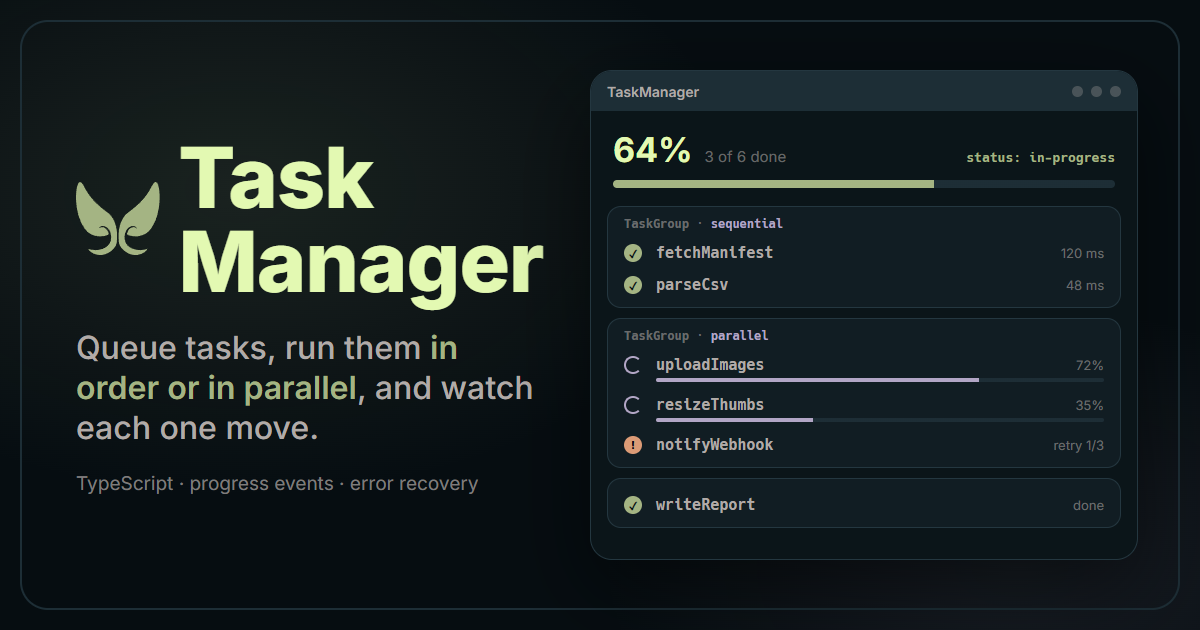
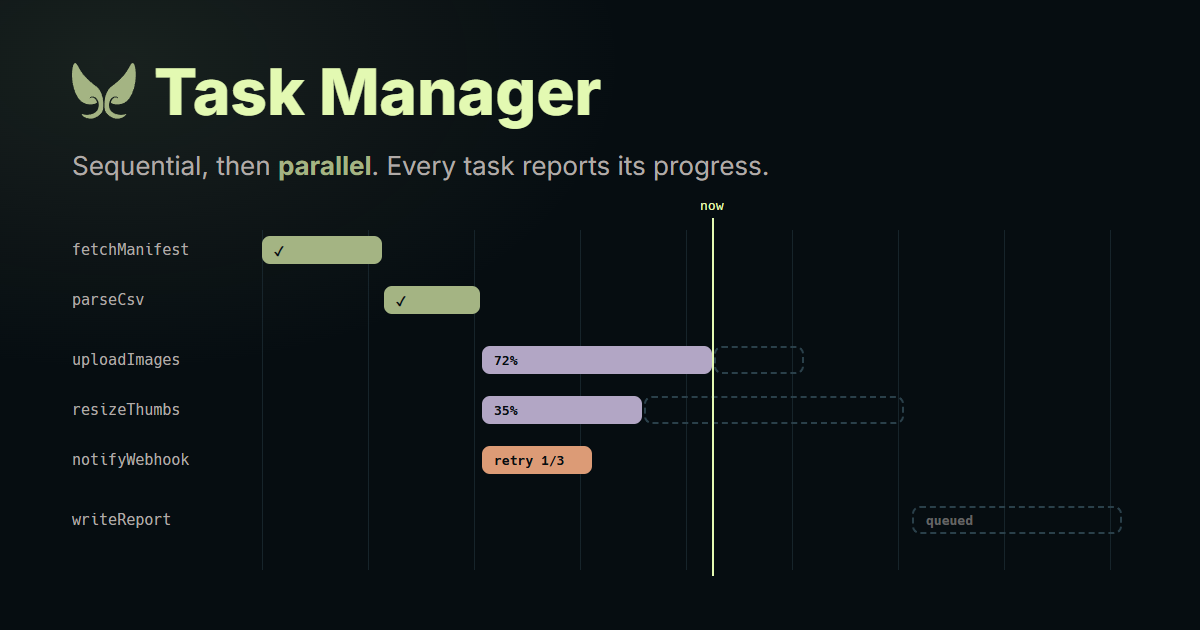
docs: share image as a task timeline
- own composition, same brand vibe as the other cards
- og.html is the source, render.sh re-renders it; panel.html no longer used

diff --git a/web/scripts/og/og.html b/web/scripts/og/og.html
@@ -9,76 +9,41 @@
   --bg-lightest: oklch(0.357 0.0326 230.47); --fg: oklch(0.745 0.0078 50.47); --dim: oklch(0.745 0.0078 50.47 / 0.55);
   --primary: oklch(0.745 0.0699 122.47); --secondary: oklch(0.745 0.0466 302.47); --accent: oklch(0.745 0.0932 50.47);
   --tertiary: oklch(0.745 0.0233 176.47); --cottontail: oklch(0.949 0.0939 122.47);
-  --info: oklch(0.745 0.1398 240); --success: oklch(0.745 0.1398 140); --warn: oklch(0.745 0.1398 70); --danger: oklch(0.745 0.1398 30);
-  --light-1: oklch(0.983 0.0086 86.47); --light-2: oklch(0.966 0.0172 86.47); --light-3: oklch(0.949 0.0259 86.47);
-  --light-4: oklch(0.8907 0.0566 86.47); --light-5: oklch(0.8325 0.0777 86.47); --light-6: oklch(0.7742 0.0723 86.47);
-  --sans: Inter, sans-serif; --mono: Hack, Consolas, monospace;
+  --mono: Hack, Consolas, monospace;
 }
 * { box-sizing: border-box; margin: 0; }
-body { width: 1200px; height: 630px; overflow: hidden; background: var(--bg-darkest); font-family: var(--sans); color: var(--fg); position: relative; }
-.og-glow { position: absolute; inset: 0; background: radial-gradient(60% 70% at 20% 30%, oklch(0.745 0.0699 122.47 / 0.13), transparent 70%), radial-gradient(50% 60% at 85% 90%, oklch(0.745 0.0466 302.47 / 0.10), transparent 70%); }
-.og-frame { position: absolute; inset: 20px; border: 2px solid var(--bg-light); border-radius: 28px; }
-.og-left { position: absolute; left: 76px; top: 0; bottom: 0; width: 470px; display: flex; flex-direction: column; justify-content: center; gap: 24px; }
-.og-brand { display: flex; align-items: center; gap: 0.22em; font-size: 92px; }
-.og-ears { height: 0.9em; width: auto; fill: var(--primary); flex-shrink: 0; }
-.og-left h1 { font-size: 1em; font-weight: 800; letter-spacing: -0.01em; color: var(--cottontail); line-height: 1; }
-.og-tag { font-size: 32px; font-weight: 500; line-height: 1.25; color: var(--fg); }
-.og-tag b { color: var(--primary); font-weight: 600; }
-.og-feat { font-size: 19px; color: oklch(0.745 0.0078 50.47 / 0.7); }
-.og-screen { position: absolute; left: 590px; top: 70px; width: 548px; height: 490px; border-radius: 22px; overflow: hidden; background: var(--bg-darker); border: 1px solid var(--bg-lighter); box-shadow: 0 30px 80px oklch(0 0 0 / 0.5); }
-.bar { height: 40px; display: flex; align-items: center; gap: 8px; padding: 0 16px; background: var(--bg-light); font-size: 14px; font-weight: 600; }
-.bar .sp { flex: 1; }
-.bar s { width: 11px; height: 11px; border-radius: 50%; background: oklch(0.745 0.0078 50.47 / 0.3); display: block; text-decoration: none; }
-.mono { font-family: var(--mono); }
-</style></head>
-<body>
-<div class="og-glow"></div>
-<div class="og-frame"></div>
-<div class="og-left">
-  <div class="og-brand"><svg class="og-ears" viewBox="0 0 200 180" aria-hidden="true"><path d="M 180.78951,9.4642023 C 167.26793,35.862516 153.19234,51.171994 121.3308,74.909274 c -9.83885,7.33009 -20.56801,28.781376 -19.83643,53.665226 0.48749,16.58156 -1.19704,24.10166 16.50142,37.51644 10.04673,7.61505 24.84456,10.73078 37.73503,5.21428 9.15926,-3.91972 14.86134,-10.24668 13.85759,-12.07669 -10.05575,3.27975 -20.2675,4.2772 -31.63206,0.60045 -7.22358,-2.33703 -22.34681,-8.63089 -22.43956,-28.48702 -0.0519,-11.10019 5.77576,-23.5906 15.97731,-26.01239 5.65284,-1.34195 12.04702,-0.34048 13.55827,5.86571 -0.89118,-1.49479 -5.42011,-5.00853 -11.88232,-3.18133 -5.71991,1.61731 -11.0719,8.87864 -11.92516,16.26466 5.76133,5.52566 39.66171,12.5901 57.75466,-13.52407 13.38833,-19.323816 19.37298,-44.595936 20.20369,-68.581476 0.84632,-24.436568 -4.89214,-59.107171 -18.41373,-32.7088617 z"/><path d="M 18.49504,9.4642043 C 32.01662,35.862514 46.09221,51.171994 77.95375,74.909274 c 9.83885,7.33009 20.56801,28.781376 19.83643,53.665226 -0.48749,16.58156 1.19704,24.10166 -16.50142,37.51644 -10.04673,7.61505 -24.84456,10.73078 -37.73503,5.21428 -9.15926,-3.91972 -14.86134,-10.24668 -13.85759,-12.07669 10.05575,3.27975 20.2675,4.2772 31.63206,0.60045 7.22358,-2.33703 22.34681,-8.63089 22.43956,-28.48702 0.0519,-11.10019 -5.77576,-23.5906 -15.97731,-26.01239 -5.65284,-1.34195 -12.04702,-0.34048 -13.55827,5.86571 0.89118,-1.49479 5.42011,-5.00853 11.88232,-3.18133 5.71991,1.61731 11.0719,8.87864 11.92516,16.26466 C 72.27833,129.80427 38.37795,136.86871 20.285,110.75454 6.8966696,91.430724 0.91201967,66.158604 0.08130967,42.173064 -0.76501033,17.736494 4.9734496,-16.93411 18.49504,9.4642043 Z"/></svg><h1>
-Task Manager</h1></div>
-  <p class="og-tag">Queue tasks, run them <b>in order or in parallel</b>, and watch each one move.</p>
-  <p class="og-feat">TypeScript · progress events · error recovery</p>
+body { width: 1200px; height: 630px; overflow: hidden; background: var(--bg-darkest); font-family: Inter, sans-serif; color: var(--fg); position: relative; }
+.ears { fill: var(--primary); }
+.cot { color: var(--cottontail); }
+.glow { position: absolute; inset: 0; pointer-events: none; }
+
+.glow { background: radial-gradient(60% 70% at 10% 10%, oklch(0.745 0.0699 122.47 / 0.12), transparent 70%); }
+.head { position: absolute; left: 72px; top: 60px; display: flex; align-items: center; gap: 18px; }
+.head .ears { width: 64px; }
+.head h1 { font-size: 64px; font-weight: 800; color: var(--cottontail); line-height: 1; }
+.tag { position: absolute; left: 72px; top: 150px; font-size: 26px; color: var(--fg); }
+.tag b { color: var(--primary); }
+.chart { position: absolute; left: 72px; right: 72px; top: 230px; bottom: 60px; }
+.axis { position: absolute; left: 190px; right: 0; top: 0; bottom: 0; background: repeating-linear-gradient(90deg, var(--bg-light) 0 1px, transparent 1px 106px); opacity: .7; }
+.lane { position: absolute; left: 0; right: 0; height: 40px; display: flex; align-items: center; }
+.lane > span { width: 190px; font: 15px var(--mono); color: var(--fg); }
+.bar { position: absolute; height: 28px; border-radius: 8px; display: flex; align-items: center; padding: 0 12px; font: 600 13px var(--mono); color: var(--bg-darkest); }
+.ok { background: var(--primary); } .run { background: var(--secondary); } .q { background: transparent; border: 2px dashed var(--bg-lightest); color: var(--dim); } .err { background: var(--accent); }
+.now { position: absolute; left: 640px; top: -12px; bottom: -6px; width: 2px; background: var(--cottontail); }
+.now::after { content: "now"; position: absolute; top: -20px; left: -12px; font: 13px var(--mono); color: var(--cottontail); }
+.fork { position: absolute; left: 190px; top: 98px; height: 152px; border-left: 2px solid var(--bg-lightest); }
+
+</style></head><body>
+<div class="glow"></div>
+<div class="head"><svg class="ears" viewBox="0 0 200 180"><path d="M 180.78951,9.4642023 C 167.26793,35.862516 153.19234,51.171994 121.3308,74.909274 c -9.83885,7.33009 -20.56801,28.781376 -19.83643,53.665226 0.48749,16.58156 -1.19704,24.10166 16.50142,37.51644 10.04673,7.61505 24.84456,10.73078 37.73503,5.21428 9.15926,-3.91972 14.86134,-10.24668 13.85759,-12.07669 -10.05575,3.27975 -20.2675,4.2772 -31.63206,0.60045 -7.22358,-2.33703 -22.34681,-8.63089 -22.43956,-28.48702 -0.0519,-11.10019 5.77576,-23.5906 15.97731,-26.01239 5.65284,-1.34195 12.04702,-0.34048 13.55827,5.86571 -0.89118,-1.49479 -5.42011,-5.00853 -11.88232,-3.18133 -5.71991,1.61731 -11.0719,8.87864 -11.92516,16.26466 5.76133,5.52566 39.66171,12.5901 57.75466,-13.52407 13.38833,-19.323816 19.37298,-44.595936 20.20369,-68.581476 0.84632,-24.436568 -4.89214,-59.107171 -18.41373,-32.7088617 z"/><path d="M 18.49504,9.4642043 C 32.01662,35.862514 46.09221,51.171994 77.95375,74.909274 c 9.83885,7.33009 20.56801,28.781376 19.83643,53.665226 -0.48749,16.58156 1.19704,24.10166 -16.50142,37.51644 -10.04673,7.61505 -24.84456,10.73078 -37.73503,5.21428 -9.15926,-3.91972 -14.86134,-10.24668 -13.85759,-12.07669 10.05575,3.27975 20.2675,4.2772 31.63206,0.60045 7.22358,-2.33703 22.34681,-8.63089 22.43956,-28.48702 0.0519,-11.10019 -5.77576,-23.5906 -15.97731,-26.01239 -5.65284,-1.34195 -12.04702,-0.34048 -13.55827,5.86571 0.89118,-1.49479 5.42011,-5.00853 11.88232,-3.18133 5.71991,1.61731 11.0719,8.87864 11.92516,16.26466 C 72.27833,129.80427 38.37795,136.86871 20.285,110.75454 6.8966696,91.430724 0.91201967,66.158604 0.08130967,42.173064 -0.76501033,17.736494 4.9734496,-16.93411 18.49504,9.4642043 Z"/></svg><h1>Task Manager</h1></div>
+<p class="tag">Sequential, then <b>parallel</b>. Every task reports its progress.</p>
+<div class="chart"><div class="axis"></div>
+  <div class="lane" style="top:0"><span>fetchManifest</span><div class="bar ok" style="left:190px;width:120px">✓</div></div>
+  <div class="lane" style="top:50px"><span>parseCsv</span><div class="bar ok" style="left:312px;width:96px">✓</div></div>
+  <div class="lane" style="top:110px"><span>uploadImages</span><div class="bar run" style="left:410px;width:230px">72%</div><div class="bar q" style="left:642px;width:90px"></div></div>
+  <div class="lane" style="top:160px"><span>resizeThumbs</span><div class="bar run" style="left:410px;width:160px">35%</div><div class="bar q" style="left:572px;width:260px"></div></div>
+  <div class="lane" style="top:210px"><span>notifyWebhook</span><div class="bar err" style="left:410px;width:110px">retry 1/3</div></div>
+  <div class="lane" style="top:270px"><span>writeReport</span><div class="bar q" style="left:840px;width:210px">queued</div></div>
+  <div class="now"></div>
 </div>
-<div class="og-screen">
-<style>
-.head { display: flex; align-items: baseline; gap: 12px; padding: 18px 22px 10px; }
-.head b { font-size: 34px; color: var(--cottontail); font-weight: 700; }
-.head span { color: var(--dim); font-size: 15px; }
-.head em { margin-left: auto; font-style: normal; font: 600 13px var(--mono); color: var(--primary); }
-.total { margin: 0 22px 18px; height: 8px; border-radius: 4px; background: linear-gradient(90deg, var(--primary) 64%, var(--bg-light) 64%); }
-.grp { margin: 0 16px 10px; padding: 10px 12px 6px; border-radius: 14px; background: var(--bg-dark); border: 1px solid var(--bg-lighter); }
-.grp-k { font: 600 12px var(--mono); color: var(--dim); margin: 0 4px 6px; }
-.grp-k b { color: var(--secondary); font-weight: 600; }
-.t { display: grid; grid-template-columns: 22px minmax(0, 1fr) auto; gap: 4px 10px; align-items: center; padding: 7px 4px; }
-.t i { width: 18px; height: 18px; border-radius: 50%; display: grid; place-items: center; font-style: normal; font-size: 11px; font-weight: 800; }
-.t .ok { background: var(--primary); color: var(--bg-darkest); }
-.t .run { border: 2.5px solid var(--secondary); border-right-color: transparent; }
-.t .q { border: 2px dashed var(--bg-lightest); }
-.t .err { background: var(--accent); color: var(--bg-darkest); }
-.t b { font: 600 15px var(--mono); color: var(--fg); }
-.t em { font-style: normal; font-size: 13px; color: var(--dim); }
-.t u { grid-column: 2 / -1; height: 4px; border-radius: 2px; text-decoration: none; display: block; }
-</style>
-  <div class="bar">TaskManager<span class="sp"></span><s></s><s></s><s></s></div>
-  <div class="head"><b>64%</b><span>3 of 6 done</span><em>status: in-progress</em></div>
-  <div class="total"></div>
-  <div class="grp"><p class="grp-k">TaskGroup · <b>sequential</b></p>
-    <div class="t"><i class="ok">✓</i><b>fetchManifest</b><em>120 ms</em></div>
-    <div class="t"><i class="ok">✓</i><b>parseCsv</b><em>48 ms</em></div>
-  </div>
-  <div class="grp"><p class="grp-k">TaskGroup · <b>parallel</b></p>
-    <div class="t"><i class="run"></i><b>uploadImages</b><em>72%</em><u style="background: linear-gradient(90deg, var(--secondary) 72%, var(--bg-light) 72%)"></u></div>
-    <div class="t"><i class="run"></i><b>resizeThumbs</b><em>35%</em><u style="background: linear-gradient(90deg, var(--secondary) 35%, var(--bg-light) 35%)"></u></div>
-    <div class="t"><i class="err">!</i><b>notifyWebhook</b><em>retry 1/3</em></div>
-  </div>
-  <div class="grp"><div class="t"><i class="ok">✓</i><b>writeReport</b><em>done</em></div></div>
-</div>
-<script>
-document.fonts.ready.then(() => {
-  const b = document.querySelector(".og-brand");
-  let s = 92;
-  while (b.scrollWidth > 470 && s > 48) b.style.fontSize = --s + "px";
-});
-</script>
 </body></html>
